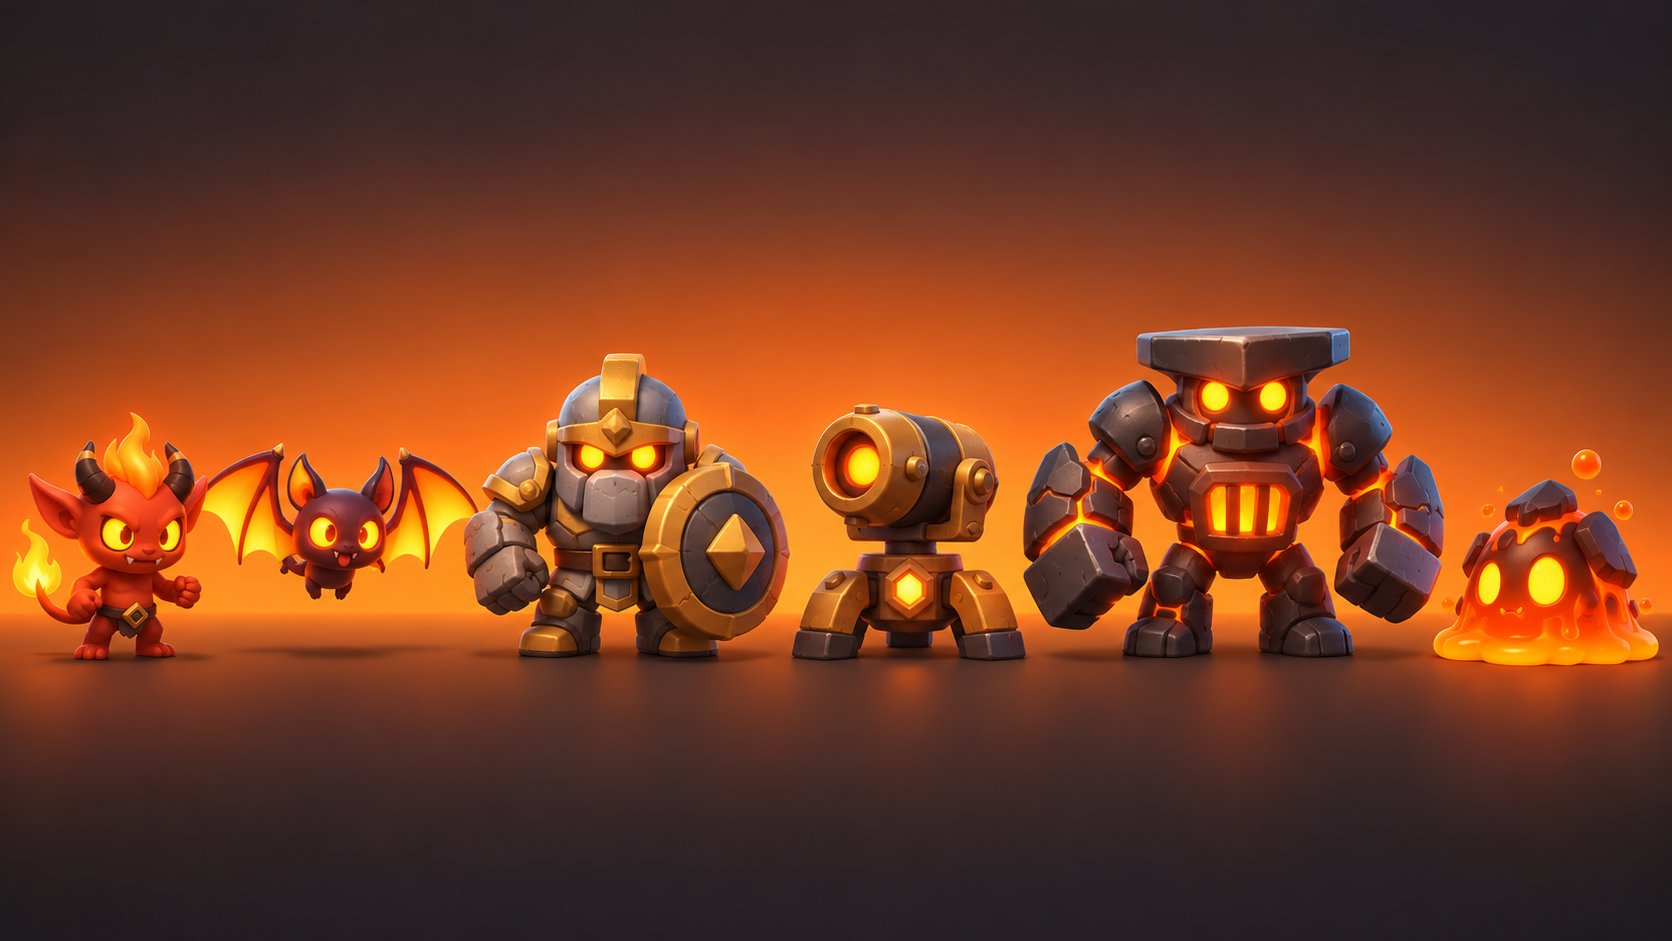
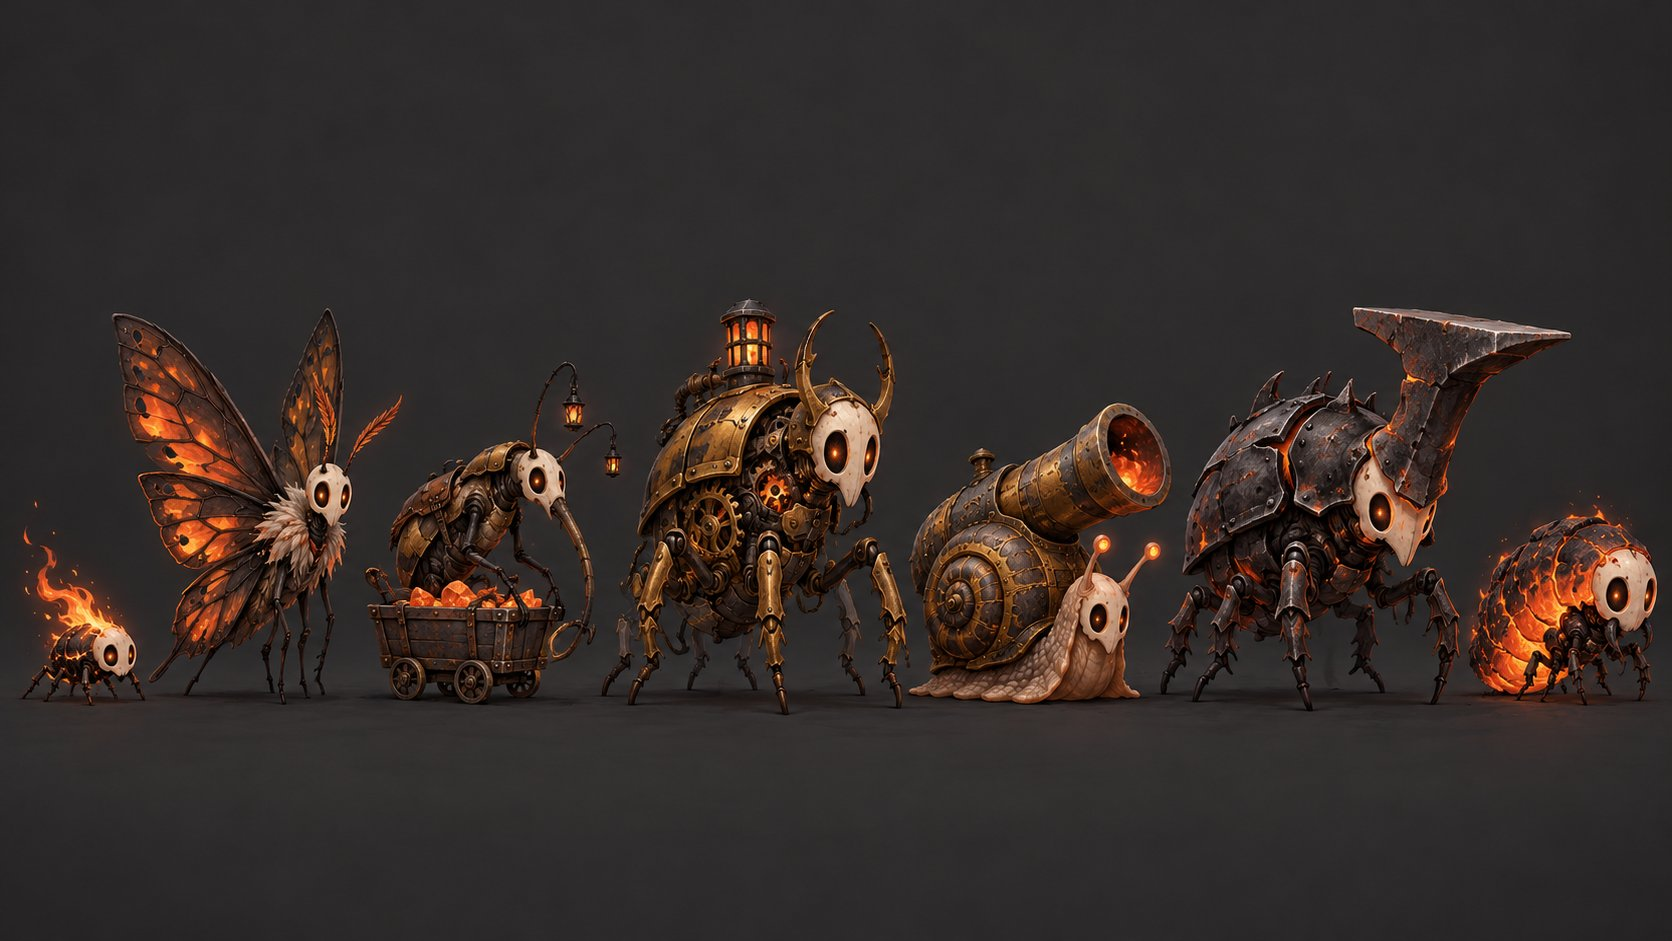
Enemies redesigned as an insect kingdom, after Hollow Knight
Every enemy becomes an original insect-kingdom creature with a pale
mask and eyes glowing in its act's colour, keeping its role, cost and
counter. The doc gains a design-language section and an old-to-new name
table; BOSSES and WORLD use the new names. New enemy line-ups for all
five acts made with ChatGPT Codex; the arenas are unchanged.

diff --git a/docs/ENEMIES-AND-ARENAS.md b/docs/ENEMIES-AND-ARENAS.md
@@ -34,6 +34,43 @@ directly above on a phone, glowing eyes, and a telegraph before any hit.
 
 ---
 
+## Design language — an insect kingdom
+
+The owner, 2026-10-22: keep the arenas, and "take inspiration from the enemy
+design from Hollow Knight and Hollow Knight Silksong". So every enemy is an
+**original** creature of an insect kingdom, built to the same rules those
+games' bestiaries follow — not a copy of any of their characters:
+
+- **Bugs, all of them.** Chitin shells, slender spindly legs, wings, horns,
+  mandibles. The roles are unchanged — a Charger is still a Charger — only
+  the body is new.
+- **A pale mask.** Each creature wears a bone-white face plate with two big
+  hollow eye sockets. From our steep top-down camera the mask is what a
+  player sees first, so it carries the silhouette.
+- **Eyes glow in the act's colour.** It keeps our readability rule (glowing
+  eyes, nothing important dark) and ties each act together: amber in the
+  Wilds, pale green in the Lowlands, cold white-blue in the Heights, ember
+  orange in the Depths, void violet at the End.
+- **One silhouette idea per creature.** A shield, a bell, a horn, a hood —
+  the rest stays quiet, so a busy room on a phone still reads.
+- **Muted bodies, bright danger.** Shells in dusty, desaturated tones;
+  shots, telegraphs and the eyes carry the colour.
+- **Charming, not grim.** Odd, a little sad, never gory — the kingdom has
+  fallen, and its bugs carry on.
+
+In game they become low-poly 3D models in the toy style the arenas use
+(`ART-archero2.md`); the concept sheets are painted to settle the design.
+
+| Act | Accent | New names (old role name) |
+|---|---|---|
+| 1 | amber | Mossgrub (Moss Slime) · Seedspitter (Sprout Slime) · Thicket Hound (Glade Wolf) · Broodbelly (Mother Slime) · Briar Skitter (Thorn Spider) · Silk Spinner (Web Spitter) · Root Lurker (Bramble Lurker) · Weaver Matron (Broodmother) · Mantis Archer (Bandit Archer) · Shellguard (Brute) · Needle Rogue (Cutthroat) · Spore Lobber (Bomb Tosser) |
+| 2 | pale green | Mire Flea (Bog Frog) · Bloatfly (Toxic Toad) · Mire Leech (Swamp Lurker) · Flea Swarm (Croaking Chorus) · Sodden Shell (Drowned Zombie) · Lantern Moth (Wisp Ghost) · Bell Snail (Bell Ringer) · Angler Mantis (Hollow Fisherman) · Puffshroom Crawler (Spore Puff) · Glowcap · Blind Centipede (Cave Crawler) · Shellback |
+| 3 | white-blue | Gale Moth (Harpy) · Chime Mantis (Gust Shaman) · Ram Beetle (Cliff Goat) · Thunder Moth (Storm Roc) · Frost Bulk (Yeti) · Rime Scarab (Frost Golem) · Frost Mite (Snow Sprite) · Crystal Tick (Ice Lurker) · Masked Pilgrim (Corrupted Monk) · Censer Acolyte (Chanting Acolyte) · Lantern Wisp (Lantern Spirit) · Bellkeeper Beetle (Bell Guardian) |
+| 4 | ember orange | Ember Mite (Fire Imp) · Cinder Moth (Ember Bat) · Rail Weevil (Mine Cart Bomber) · Magma Grub (Magma Lurker) · Forge Shell (Dwarven Construct) · Mortar Snail (Forge Turret) · Anvil Rhino Beetle (Anvil Golem) · Spark Firefly (Spark Drone) · Magma Larva (Lava Slime) · Ember Mantis (Ember Mage) · Obsidian Stag (Obsidian Brute) |
+| 5 | void violet | Lost Sentinel (Undead Knight) · Shade Archer (Skeleton Archer) · Wailing Moth (Banshee) · Stone Stag (Gargoyle) · Void Mote (Void Wisp) · Rift Mantis (Rift Stalker) · Gravity Orb · Echo |
+
+---
+
 ## Act 1 — The Wilds
 
 Signature hazard: **choke points.** Brambles and rocks that narrow the room
@@ -44,10 +81,10 @@ the act that teaches the game.
 
 | Enemy | Made from | What it does | Teaches |
 |---|---|---|---|
-| **Moss Slime** | Charger, slow · reskin | Hops straight at you | Move or shoot |
-| **Sprout Slime** | Spitter · reskin | Lobs one slow seed | Dodging a shot |
-| **Glade Wolf** | Charger, fast · twist: comes in packs of 3 that circle before lunging | Circles, then dashes in | Reading a lunge |
-| *Elite:* **Mother Slime** | Bulwark · twist: splits into 2 Moss Slimes on death | A slow wall that becomes two threats | Finishing what you start |
+| **Mossgrub** | Charger, slow · reskin | Hops straight at you | Move or shoot |
+| **Seedspitter** | Spitter · reskin | Lobs one slow seed | Dodging a shot |
+| **Thicket Hound** | Charger, fast · twist: comes in packs of 3 that circle before lunging | Circles, then dashes in | Reading a lunge |
+| *Elite:* **Broodbelly** | Bulwark · twist: bursts into 2 Mossgrubs on death | A slow wall that becomes two threats | Finishing what you start |
 
 **Arenas.** *Clearing* — open grass, two mossy stumps. *Fairy Ring* — a ring
 of mushrooms (low cover) round an open centre. *Fallen Log* — one long log
@@ -57,10 +94,10 @@ across the middle with a gap at each end.
 
 | Enemy | Made from | What it does |
 |---|---|---|
-| **Thorn Spider** | Charger · twist: leaves a short sticky web patch where it dies (slows) | Fast skitter, web on death |
-| **Web Spitter** | Spitter · twist: its orbs leave slow patches | Area denial |
-| **Bramble Lurker** | Lurker · reskin (vine bulb) | Surfaces under you with a ring of thorns |
-| *Elite:* **Broodmother** | Bulwark · twist: drops 2 Thorn Spiders every few seconds | Must be pushed through |
+| **Briar Skitter** | Charger · twist: leaves a short sticky web patch where it dies (slows) | Fast skitter, web on death |
+| **Silk Spinner** | Spitter · twist: its orbs leave slow patches | Area denial |
+| **Root Lurker** | Lurker · reskin (vine bulb) | Surfaces under you with a ring of thorns |
+| *Elite:* **Weaver Matron** | Bulwark · twist: drops 2 Briar Skitters every few seconds | Must be pushed through |
 
 **Arenas.** *Bramble Maze* — brambles carve the room into lanes with gaps.
 *The Funnel* — the room narrows to a single gap halfway up. *Briar Patch* —
@@ -70,10 +107,10 @@ scattered bramble clumps; touching one slows (a soft hazard).
 
 | Enemy | Made from | What it does |
 |---|---|---|
-| **Bandit Archer** | Lancer · reskin (hooded bandit, bow) | Telegraphed aimed shot |
-| **Brute** | Bulwark · reskin (big club, wooden shield) | Blocks, swings when close |
-| **Cutthroat** | Charger · twist: dashes in, strikes, then retreats | Hit-and-run |
-| **Bomb Tosser** | Spitter · twist: one arcing bomb that bursts in a ring after a fuse | A delayed area |
+| **Mantis Archer** | Lancer · reskin (hooded bandit, bow) | Telegraphed aimed shot |
+| **Shellguard** | Bulwark · reskin (big club, wooden shield) | Blocks, swings when close |
+| **Needle Rogue** | Charger · twist: dashes in, strikes, then retreats | Hit-and-run |
+| **Spore Lobber** | Spitter · twist: one arcing bomb that bursts in a ring after a fuse | A delayed area |
 
 **Arenas.** *Canyon Floor* — long open room, crates as cover. *Watchtowers* —
 two raised platforms an archer stands on (it can only be reached by shots).
@@ -92,10 +129,10 @@ that slows — the act where standing still in the wrong place costs you.
 
 | Enemy | Made from | What it does |
 |---|---|---|
-| **Bog Frog** | **New: leaper** — jumps to a marked spot, lands with a splash ring | Telegraphed leaps |
-| **Toxic Toad** | Spitter · twist: shots leave a poison puddle | Poisons the ground |
-| **Swamp Lurker** | Lurker · reskin (eyes on stalks) | Pops up out of the water |
-| *Elite:* **Croaking Chorus** | 4 Bog Frogs that leap together on a beat | Rhythm dodging |
+| **Mire Flea** | **New: leaper** — jumps to a marked spot, lands with a splash ring | Telegraphed leaps |
+| **Bloatfly** | Spitter · twist: shots leave a poison puddle | Poisons the ground |
+| **Mire Leech** | Lurker · reskin (eyes on stalks) | Pops up out of the water |
+| *Elite:* **Flea Swarm** | 4 Mire Fleas that leap together on a beat | Rhythm dodging |
 
 **Arenas.** *Lily Pads* — the floor is water with pad "islands"; water is a
 slow zone. *Poison Ring* — a poison pool in the middle, fight round its edge.
@@ -105,10 +142,10 @@ slow zone. *Poison Ring* — a poison pool in the middle, fight round its edge.
 
 | Enemy | Made from | What it does |
 |---|---|---|
-| **Drowned Zombie** | Charger, slow · twist: rises once more after death unless it burns | Slow, relentless |
-| **Wisp Ghost** | **New: phaser** — drifts through walls and obstacles, fades in and out | Can't be hidden from |
-| **Bell Ringer** | Lancer · twist: its shot is a sound wave cone, not a line | A wide telegraph |
-| *Elite:* **Hollow Fisherman** | Bulwark · twist: hooks you toward it (pull) | Being pulled |
+| **Sodden Shell** | Charger, slow · twist: rises once more after death unless it burns | Slow, relentless |
+| **Lantern Moth** | **New: phaser** — drifts through walls and obstacles, fades in and out | Can't be hidden from |
+| **Bell Snail** | Lancer · twist: its shot is a sound wave cone, not a line | A wide telegraph |
+| *Elite:* **Angler Mantis** | Bulwark · twist: hooks you toward it (pull) | Being pulled |
 
 **Arenas.** *Flooded Street* — two rows of broken houses, a lane between.
 *The Square* — a well in the middle, houses round the edge. *Rooftops* —
@@ -118,9 +155,9 @@ gaps between roofs are drops (void edges, a light preview of Act 5).
 
 | Enemy | Made from | What it does |
 |---|---|---|
-| **Spore Puff** | Charger · twist: bursts into a poison cloud when killed close | Kill it from range |
+| **Puffshroom Crawler** | Charger · twist: bursts into a poison cloud when killed close | Kill it from range |
 | **Glowcap** | **New: stationary** — a mushroom turret that sprays spores in a spiral | A rotating hazard |
-| **Cave Crawler** | Lurker · reskin (blind cave worm) | Surfaces under you |
+| **Blind Centipede** | Lurker · reskin (blind cave worm) | Surfaces under you |
 | **Shellback** | Bulwark · reskin (beetle) | The wall between you and the turrets |
 
 **Arenas.** *Fungus Grove* — giant mushrooms as pillars; their caps glow.
@@ -140,10 +177,10 @@ you stop — the act where your position is not fully yours.
 
 | Enemy | Made from | What it does |
 |---|---|---|
-| **Harpy** | **New: flyer** — crosses walls and gaps, dives at a marked spot | Threat from anywhere |
-| **Gust Shaman** | Lancer · twist: shot knocks you back instead of only hurting | Positional danger |
-| **Cliff Goat** | Charger · twist: charge knocks back hard | Don't stand near edges |
-| *Elite:* **Storm Roc** | Harpy, big · drops feathers in a fan as it dives | — |
+| **Gale Moth** | **New: flyer** — crosses walls and gaps, dives at a marked spot | Threat from anywhere |
+| **Chime Mantis** | Lancer · twist: shot knocks you back instead of only hurting | Positional danger |
+| **Ram Beetle** | Charger · twist: charge knocks back hard | Don't stand near edges |
+| *Elite:* **Thunder Moth** | Gale Moth, big · sheds scales in a fan as it dives | — |
 
 **Arenas.** *Ledge Path* — a narrow walkway with drops each side (void
 edges). *Wind Tunnel* — gusts push everything one way on a cycle (shown by
@@ -153,10 +190,10 @@ streaks first). *Twin Peaks* — two plateaus joined by a bridge.
 
 | Enemy | Made from | What it does |
 |---|---|---|
-| **Yeti** | Bulwark · twist: throws a big snowball (slow, arcing, splash) | Heavy, slow |
-| **Frost Golem** | Bulwark · twist: freezes the ground in a ring when it stomps | Makes ice |
-| **Snow Sprite** | Spitter · twist: shots chill (slow you) | Speed drain |
-| **Ice Lurker** | Lurker · reskin (crystal) | Surfaces under you |
+| **Frost Bulk** | Bulwark · twist: throws a big snowball (slow, arcing, splash) | Heavy, slow |
+| **Rime Scarab** | Bulwark · twist: freezes the ground in a ring when it stomps | Makes ice |
+| **Frost Mite** | Spitter · twist: shots chill (slow you) | Speed drain |
+| **Crystal Tick** | Lurker · reskin (crystal) | Surfaces under you |
 
 **Arenas.** *Frozen Lake* — most of the floor is ice: you slide, you can't
 stop dead (a movement change, the act's real test). *Icicle Gorge* — icicles
@@ -166,10 +203,10 @@ fall on marked spots on a timer. *Snowbound Pass* — snowdrifts as low cover.
 
 | Enemy | Made from | What it does |
 |---|---|---|
-| **Corrupted Monk** | Charger · twist: a 3-hit combo, then pauses | Wait for the opening |
-| **Chanting Acolyte** | Spitter · twist: fires in rotating spirals | Bullet patterns |
-| **Lantern Spirit** | **New: phaser** (shared with Wisp Ghost) | — |
-| **Bell Guardian** | Bulwark · twist: rings a shockwave ring every few seconds | Ring timing |
+| **Masked Pilgrim** | Charger · twist: a 3-hit combo, then pauses | Wait for the opening |
+| **Censer Acolyte** | Spitter · twist: fires in rotating spirals | Bullet patterns |
+| **Lantern Wisp** | **New: phaser** (shared with Lantern Moth) | — |
+| **Bellkeeper Beetle** | Bulwark · twist: rings a shockwave ring every few seconds | Ring timing |
 
 **Arenas.** *Prayer Hall* — rows of pillars. *Spike Floor* — floor tiles spike
 up in a pattern (checkerboard, sweeping row) that the room shows a beat
@@ -188,10 +225,10 @@ where the arena itself is the most dangerous enemy.
 
 | Enemy | Made from | What it does |
 |---|---|---|
-| **Fire Imp** | Charger, fast · twist: leaves a short fire trail | Don't follow its path |
-| **Ember Bat** | **New: flyer** (shared with Harpy) | Swoops over the cracks |
-| **Mine Cart Bomber** | **New: rider** — rides fixed rails, drops bombs | Rails are lanes to avoid |
-| **Magma Lurker** | Lurker · reskin | Surfaces under you |
+| **Ember Mite** | Charger, fast · twist: leaves a short fire trail | Don't follow its path |
+| **Cinder Moth** | **New: flyer** (shared with Gale Moth) | Swoops over the cracks |
+| **Rail Weevil** | **New: rider** — rides fixed rails, drops bombs | Rails are lanes to avoid |
+| **Magma Grub** | Lurker · reskin | Surfaces under you |
 
 **Arenas.** *Mine Shafts* — narrow tunnels. *Lava Cracks* — glowing cracks
 that erupt on a timer (warning glow first). *Collapsing Tunnel* — floor
@@ -201,10 +238,10 @@ sections crumble after you've stood on them for a moment.
 
 | Enemy | Made from | What it does |
 |---|---|---|
-| **Dwarven Construct** | Bulwark · reskin (stone and brass) | The wall |
-| **Forge Turret** | **New: stationary** (shared with Glowcap) — aimed bursts | Stationary threat |
-| **Anvil Golem** | Charger, slow · twist: slam leaves a burning ring | Big telegraph |
-| **Spark Drone** | Spitter · twist: hovers, sprays a short fan | Pressure |
+| **Forge Shell** | Bulwark · reskin (stone and brass) | The wall |
+| **Mortar Snail** | **New: stationary** (shared with Glowcap) — aimed bursts | Stationary threat |
+| **Anvil Rhino Beetle** | Charger, slow · twist: slam leaves a burning ring | Big telegraph |
+| **Spark Firefly** | Spitter · twist: hovers, sprays a short fan | Pressure |
 
 **Arenas.** *Assembly Line* — conveyor belts move you (and enemies) along.
 *Forge Floor* — open, with furnaces that vent fire on a timer. *Turret Gallery*
@@ -214,9 +251,9 @@ sections crumble after you've stood on them for a moment.
 
 | Enemy | Made from | What it does |
 |---|---|---|
-| **Lava Slime** | Charger · twist: splits into 2 small lava slimes (Act 1's lesson, harder) | — |
-| **Ember Mage** | Lancer · twist: fires three lines in a fan | Wider telegraph |
-| **Obsidian Brute** | Bulwark · twist: immune from the front | Flank it |
+| **Magma Larva** | Charger · twist: bursts into 2 small Magma Larvae (Act 1's lesson, harder) | — |
+| **Ember Mantis** | Lancer · twist: fires three lines in a fan | Wider telegraph |
+| **Obsidian Stag** | Bulwark · twist: immune from the front | Flank it |
 
 **Arenas.** *Rising Lava* — the room's edges flood with lava over the fight,
 shrinking the safe floor. *Basalt Islands* — islands over lava joined by
@@ -235,21 +272,21 @@ shifts — the act where the rules of the room change.
 
 | Enemy | Made from | What it does |
 |---|---|---|
-| **Undead Knight** | Bulwark · twist: blocks from the front, lunges | Patience |
-| **Skeleton Archer** | Lancer · reskin | — |
-| **Banshee** | **New: phaser** (shared) · twist: shriek cone slows | — |
-| **Gargoyle** | **New: perch** — a statue (untargetable) until you come near | Ambush |
+| **Lost Sentinel** | Bulwark · twist: blocks from the front, lunges | Patience |
+| **Shade Archer** | Lancer · reskin | — |
+| **Wailing Moth** | **New: phaser** (shared) · twist: shriek cone slows | — |
+| **Stone Stag** | **New: perch** — a statue (untargetable) until you come near | Ambush |
 
 **Arenas.** *Throne Hall* — pillars and a long carpet. *Broken Battlements* —
-wall walk with gaps (void edges). *Courtyard of Statues* — gargoyle statues
+wall walk with gaps (void edges). *Courtyard of Statues* — stag-beetle statues
 everywhere; some wake.
 
 ### 14. Void Rift — floating platforms · lean: Ranger (open)
 
 | Enemy | Made from | What it does |
 |---|---|---|
-| **Void Wisp** | **New: blinker** — teleports to a marked spot near you, then fires | Watch the mark |
-| **Rift Stalker** | Charger · twist: blinks the last few studs of its charge | Late dodge |
+| **Void Mote** | **New: blinker** — teleports to a marked spot near you, then fires | Watch the mark |
+| **Rift Mantis** | Charger · twist: blinks the last few studs of its charge | Late dodge |
 | **Gravity Orb** | **New: stationary** · pulls you toward it | Fight the pull |
 | *Elite:* **Echo** | A copy of the player's own class, weaker | Fight yourself |
 
@@ -293,9 +330,9 @@ have.
 
 ## Concept art
 
-Made with ChatGPT Codex (owner's choice for images and models), in the
-Archero 2 toy style of `ART-archero2.md`. Each act has an enemy line-up and an
-arena sheet.
+Made with ChatGPT Codex (owner's choice for images and models). The arenas
+are in the Archero 2 toy style of `ART-archero2.md`; the enemy line-ups were
+redone in the insect-kingdom design language above (2026-10-22).
 
 | Act | Enemies | Arena |
 |---|---|---|

diff --git a/docs/BOSSES.md b/docs/BOSSES.md
@@ -43,7 +43,7 @@ clearly.
 - **Phase 1 — Royal Hop.** Hops toward you; a ring marks where it lands; the
   landing sends out a slow ripple. Between hops it sits still — the window.
 - **Phase 2 (50%) — Divided Court.** Splits into two half-size Bloblins that
-  hop in turn, then, below 25% each, into Moss Slimes.
+  hop in turn, then, below 25% each, into Mossgrubs.
 - *Teaches:* watch the landing mark; finish what you start (Mother Slime,
   bigger). *Class notes:* Ranger kites easily; Warden must dodge the ripple
   to stay close.
@@ -91,7 +91,7 @@ clearly.
 - **Phase 1 — Toll.** Rings the bell: a shockwave ring expands from it,
   jump-free — you must be outside it or between two rings. Drifts through
   houses (phaser).
-- **Phase 2 (50%) — The Drowned Rise.** Each toll raises Drowned Zombies; the
+- **Phase 2 (50%) — The Drowned Rise.** Each toll raises Sodden Shells; the
   bell's rings now come in pairs.
 - *Teaches:* ring timing; nothing can hide behind a wall here. *Class notes:*
   Warden can stand inside the ring's gap; Ranger must keep line of sight.
@@ -103,7 +103,7 @@ clearly.
 - **Phase 2 (66%) — Belly Flop.** Leaps to a marked spot (leaper); the landing
   sends a shockwave ring and splashes poison.
 - **Phase 3 (33%) — The Bog Rises.** Poison floods the room's edges, shrinking
-  the dry floor; she swallows Spore Puffs and spits them as bursting clouds.
+  the dry floor; she swallows Puffshroom Crawlers and spits them as bursting clouds.
 - *Arena:* an underground lake ringed by glowing mushrooms. *Teaches:* every
   Lowlands lesson at once. *Class notes:* Ranger has the safest tongue
   windows; Arcanist's freeze can hold her mid-leap.
@@ -163,7 +163,7 @@ clearly.
 *A towering dwarven war-construct with a hammer and a furnace core.*
 
 - **Phase 1 — Hammer.** Slams in a marked cone and a shockwave line; deploys
-  Forge Turrets on the walls.
+  Mortar Snails on the walls.
 - **Phase 2 (50%) — Overheat.** Vents fire in a ring after every few slams,
   then stalls with its core exposed — the big damage window.
 - *Teaches:* stationary threats and windows. *Class notes:* Ranger clears
@@ -190,7 +190,7 @@ clearly.
 *A giant undead knight with a tower shield and a greatsword.*
 
 - **Phase 1 — Shield Wall.** Blocks everything from the front; sweeping sword
-  arcs; summons Skeleton Archers. Flank him.
+  arcs; summons Shade Archers. Flank him.
 - **Phase 2 (50%) — Broken Oath.** Drops the shield; throws his sword in a
   spinning arc that returns, and lunges after it.
 - *Teaches:* patience and flanking. *Class notes:* Warden's knockback turns

diff --git a/docs/WORLD.md b/docs/WORLD.md
@@ -86,6 +86,11 @@ Signature hazards by act, as suggested: slow (Lowlands — poison and slow
 zones), knockback (Heights), lava (Depths), void (The End); the Wilds' is
 open — brambles' choke points are the nearest candidate.
 
+The enemies named in this table are the owner's first outline; the
+designed roster is an insect kingdom in the spirit of Hollow Knight and
+Silksong (original creatures, pale masks, eyes in each act's colour) — see
+`ENEMIES-AND-ARENAS.md`, "Design language".
+
 New enemy types are built the way `PROGRESSION.md` already says: from the
 five archetypes (charger, spitter, lancer, bulwark, lurker) with new art and
 stats where they fit, and new archetypes only where a behaviour is genuinely
